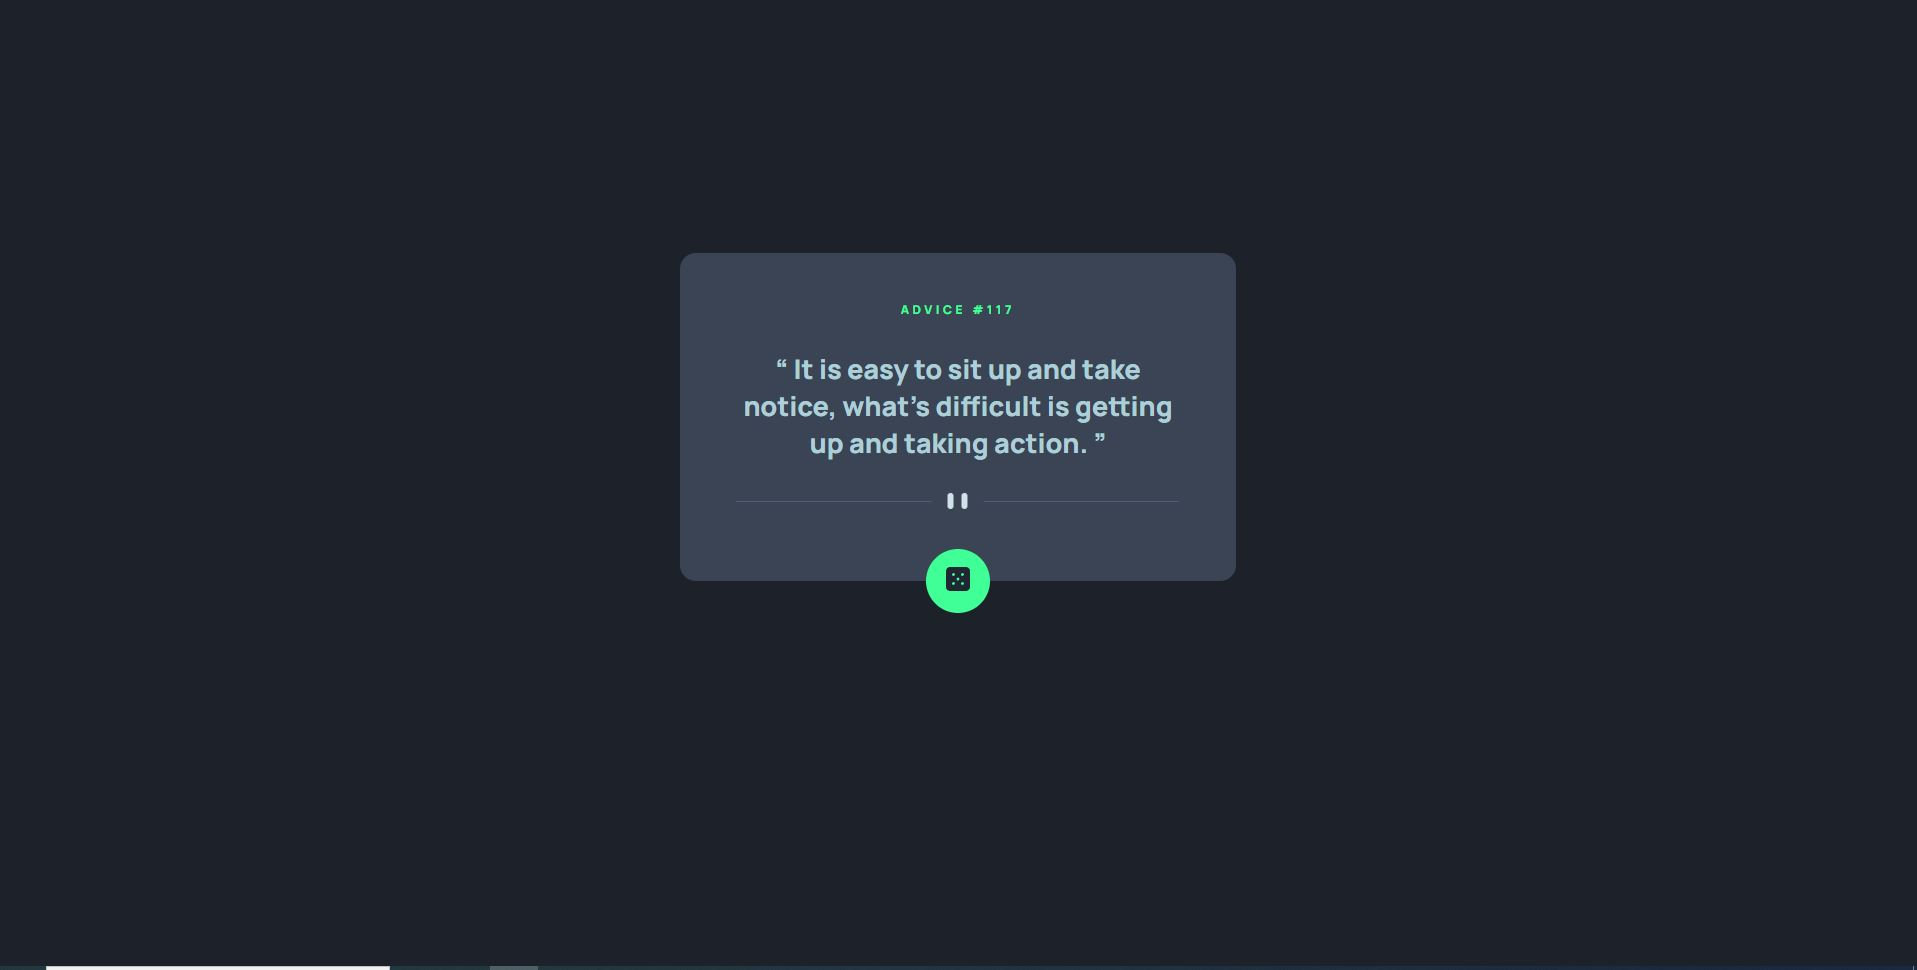
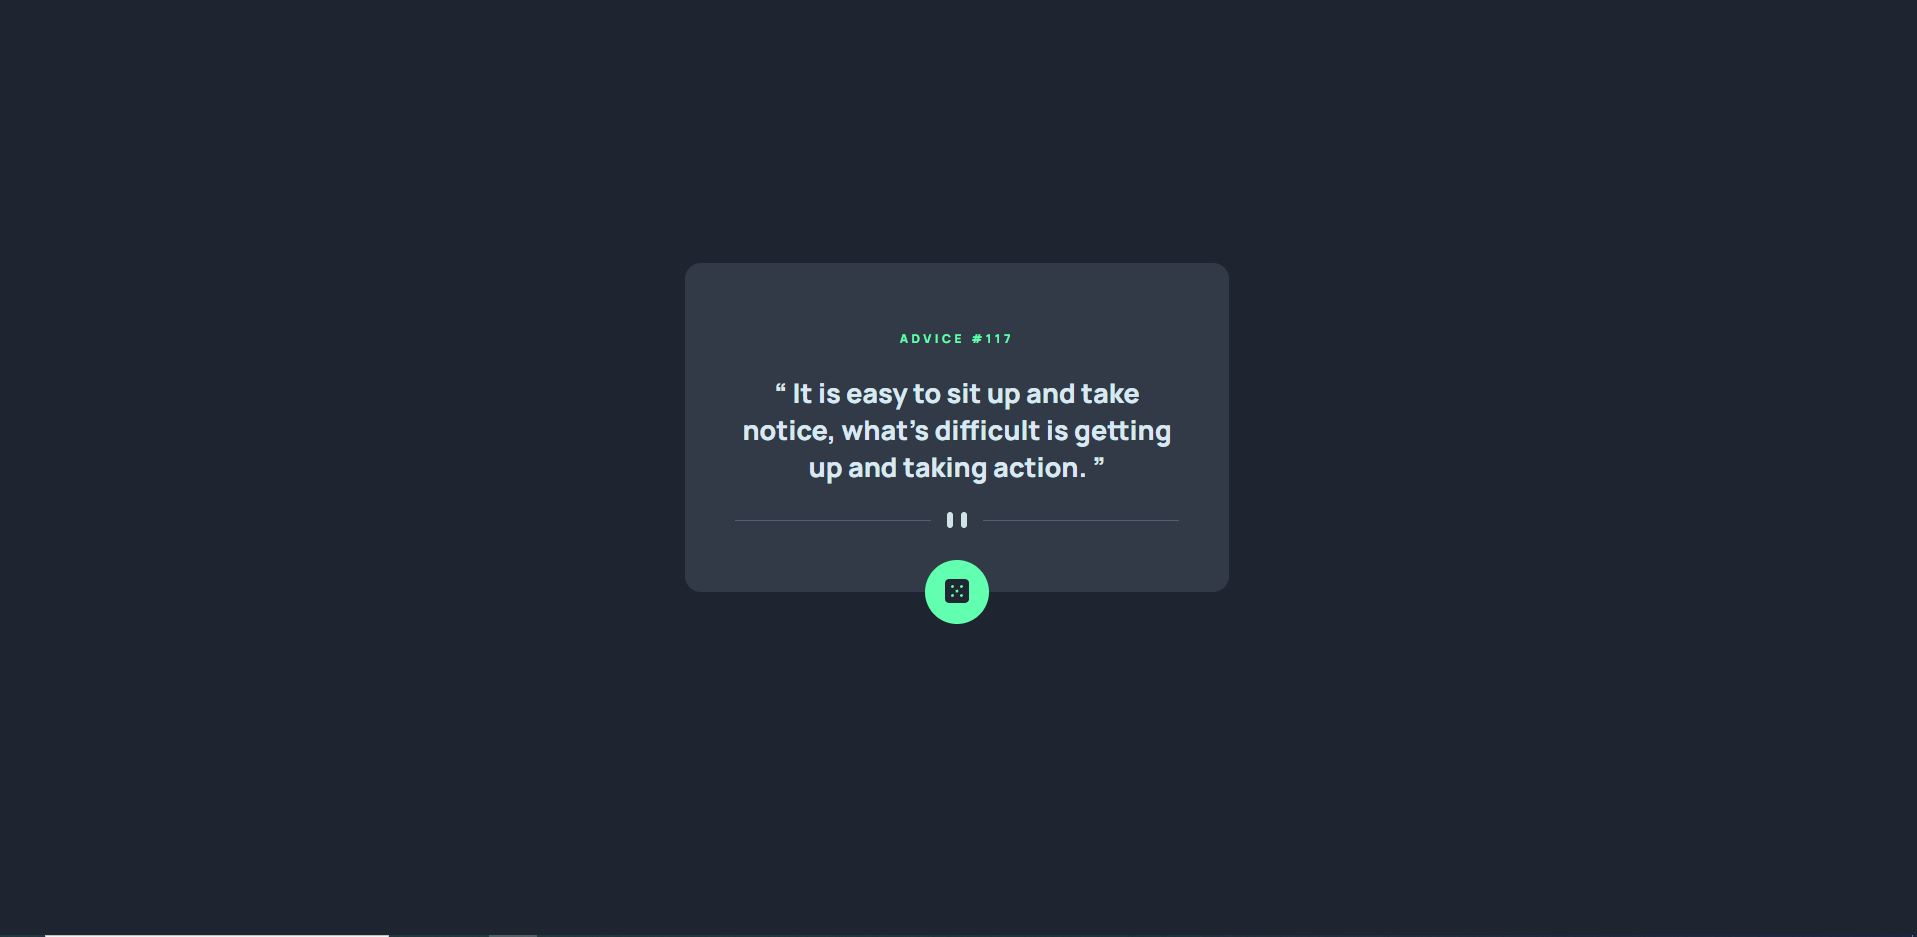
added error handling and fixed width

Changed region(s): [[0.3385, 0.2476, 0.6463, 0.6809], [0.0308, 0.9904, 0.2154, 1.0], [0.2462, 0.9904, 0.277, 1.0]]

diff --git a/index.html b/index.html
@@ -37,7 +37,7 @@
   		padding-bottom: 3.7rem;
   		position: relative;
   		text-align: center;
-  		max-width: 21rem;
+  		width: 21rem;
   	}
 
   	.advice-header {
@@ -56,6 +56,11 @@
 	}
   	.advice-quote:after {
 	  content: close-quote;
+	}
+
+	.error-message {
+  		color: #f08080;
+  		font-size: 1.8em;
 	}
 
 	.advice-button {
@@ -107,7 +112,7 @@
 
 	  	.advice {
 	  		padding: 3.7rem 0;
-	  		max-width: 34rem;
+	  		width: 34rem;
 	  	}
 
 	}
@@ -148,8 +153,13 @@
 				fetch(URI)
 				.then((res) => res.json())
 				.then(({slip}) => {
+					adviceQuoteRef.classList.replace('error-message', 'advice-quote')
 					updateAdvice(slip);
-				}).catch((err) => console.log(err))
+				}).catch(() => {
+					adviceQuoteRef.classList.replace('advice-quote', 'error-message')
+					adviceHeaderRef.textContent = "ADVICE ERROR";
+					adviceQuoteRef.textContent = "Our advicer went to look for advice. Try again in a moment.";
+				})
 				.finally(() => adviceIconBtnRef.classList.toggle('dicing'))
 			}
 			adviceIconBtnRef.classList.toggle('dicing');

diff --git a/README.md b/README.md
@@ -46,7 +46,8 @@ Users should be able to:
 
 ### What I learned
 
-Some CSS properties like line-spacing for text and blockquote tag importance for semantic. 
+* Some CSS properties like line-spacing for text and blockquote tag importance for semantic.
+* Animations using opacity for better performance.
 
 ### Continued development
 
